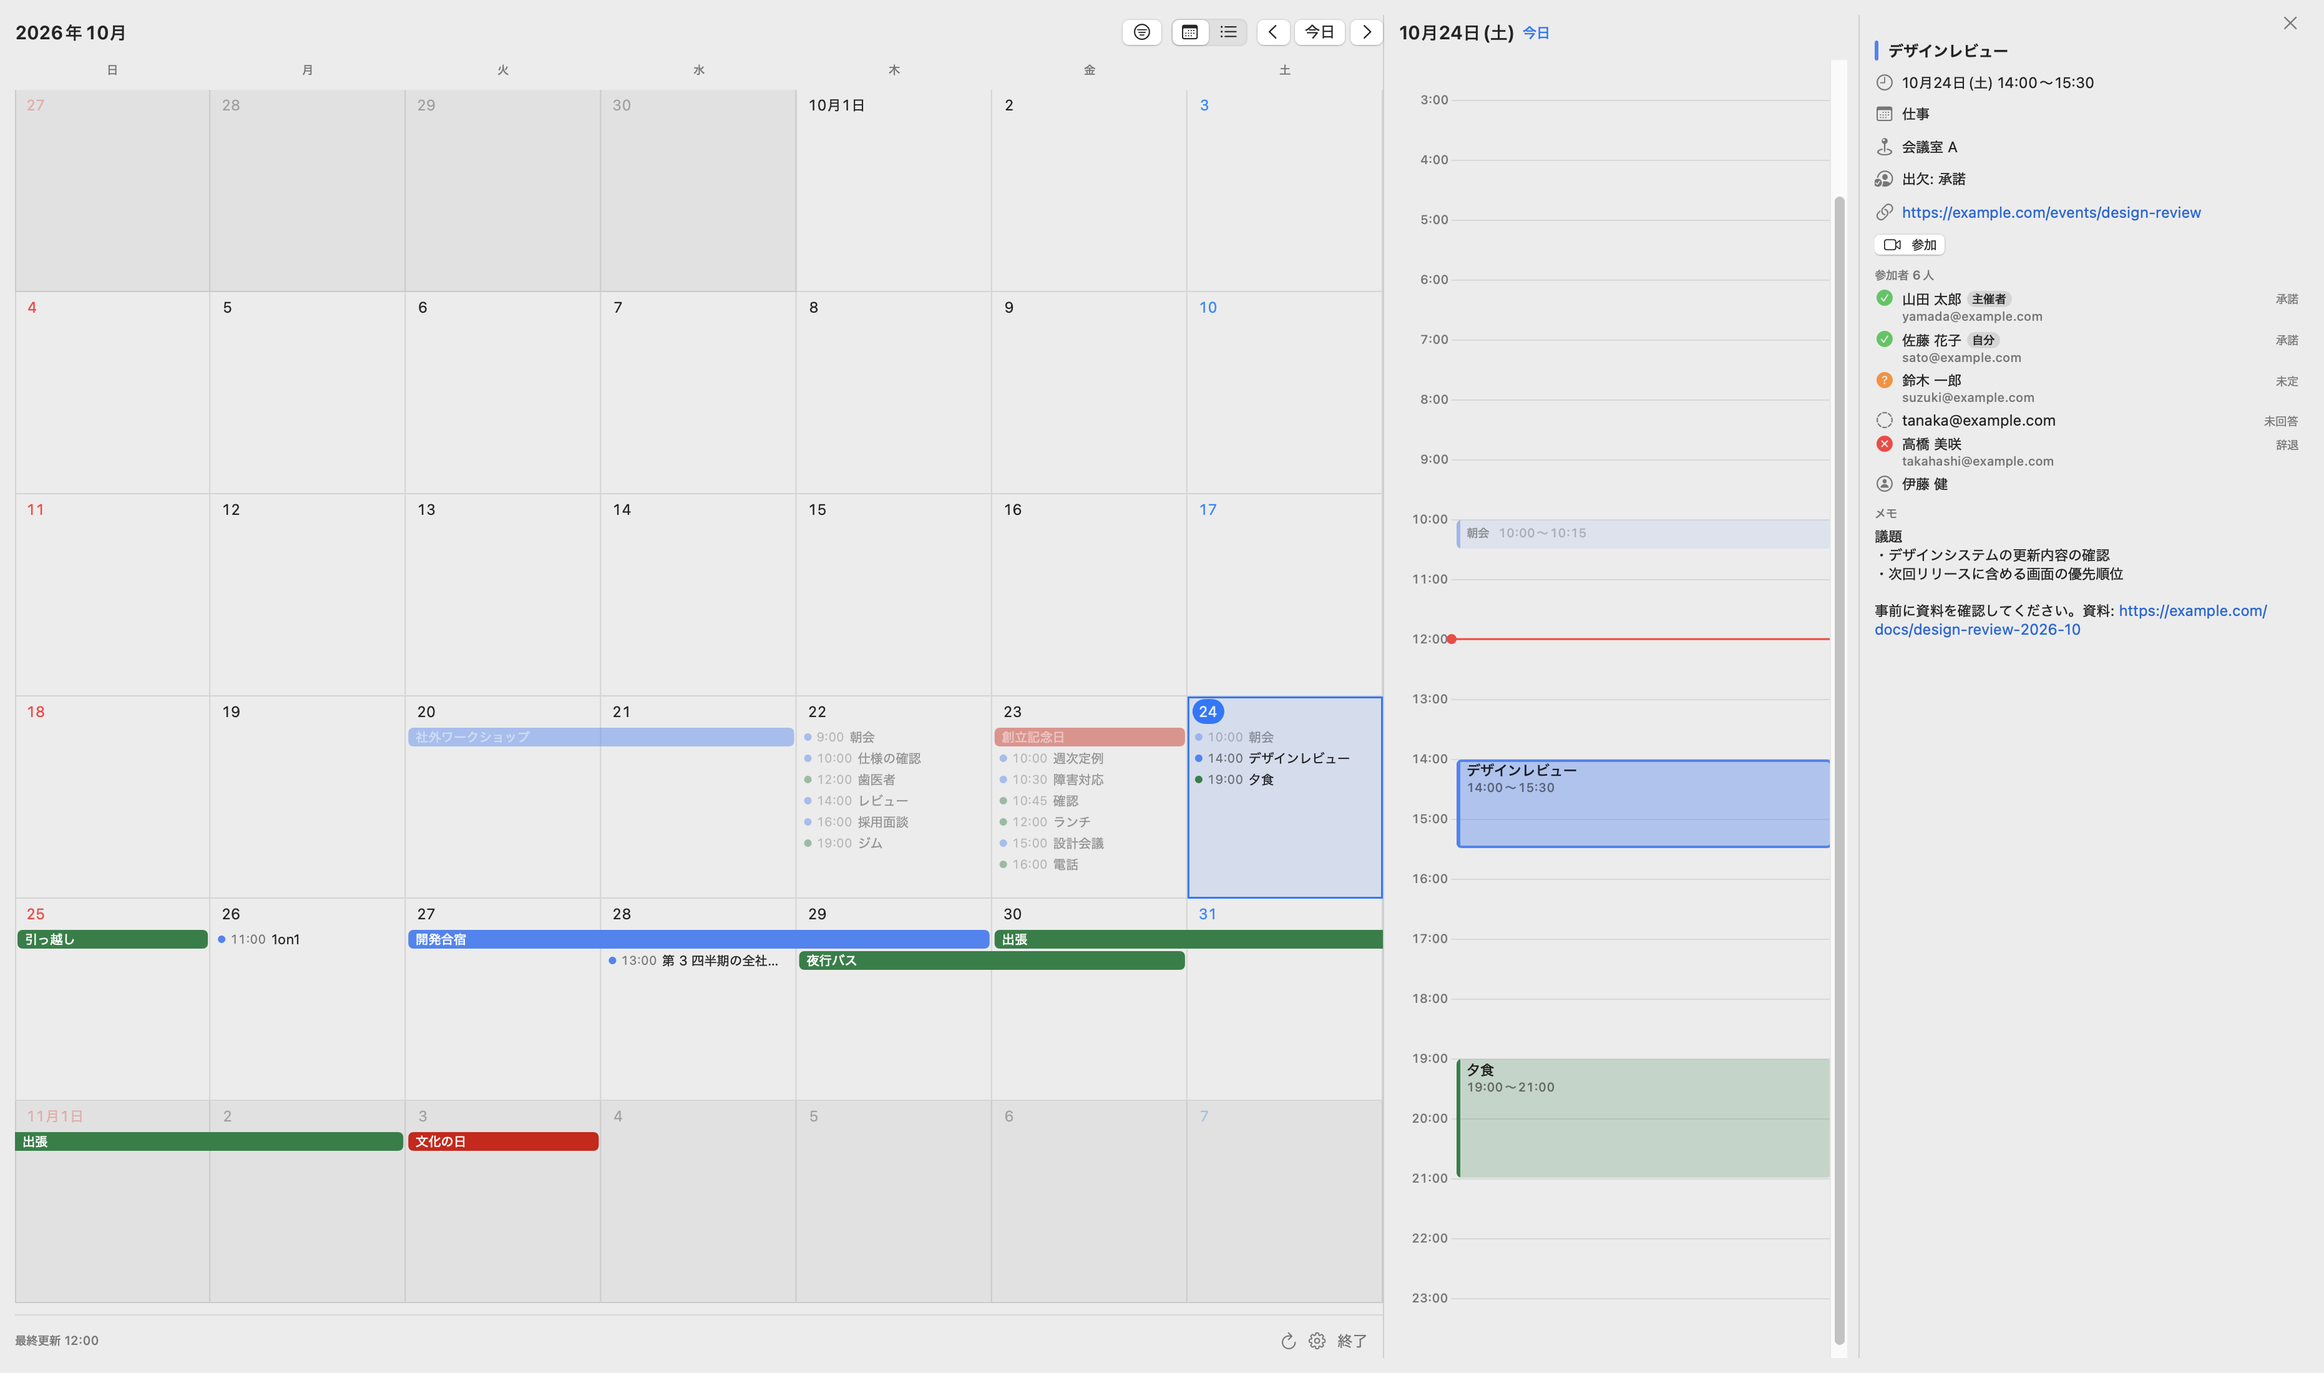
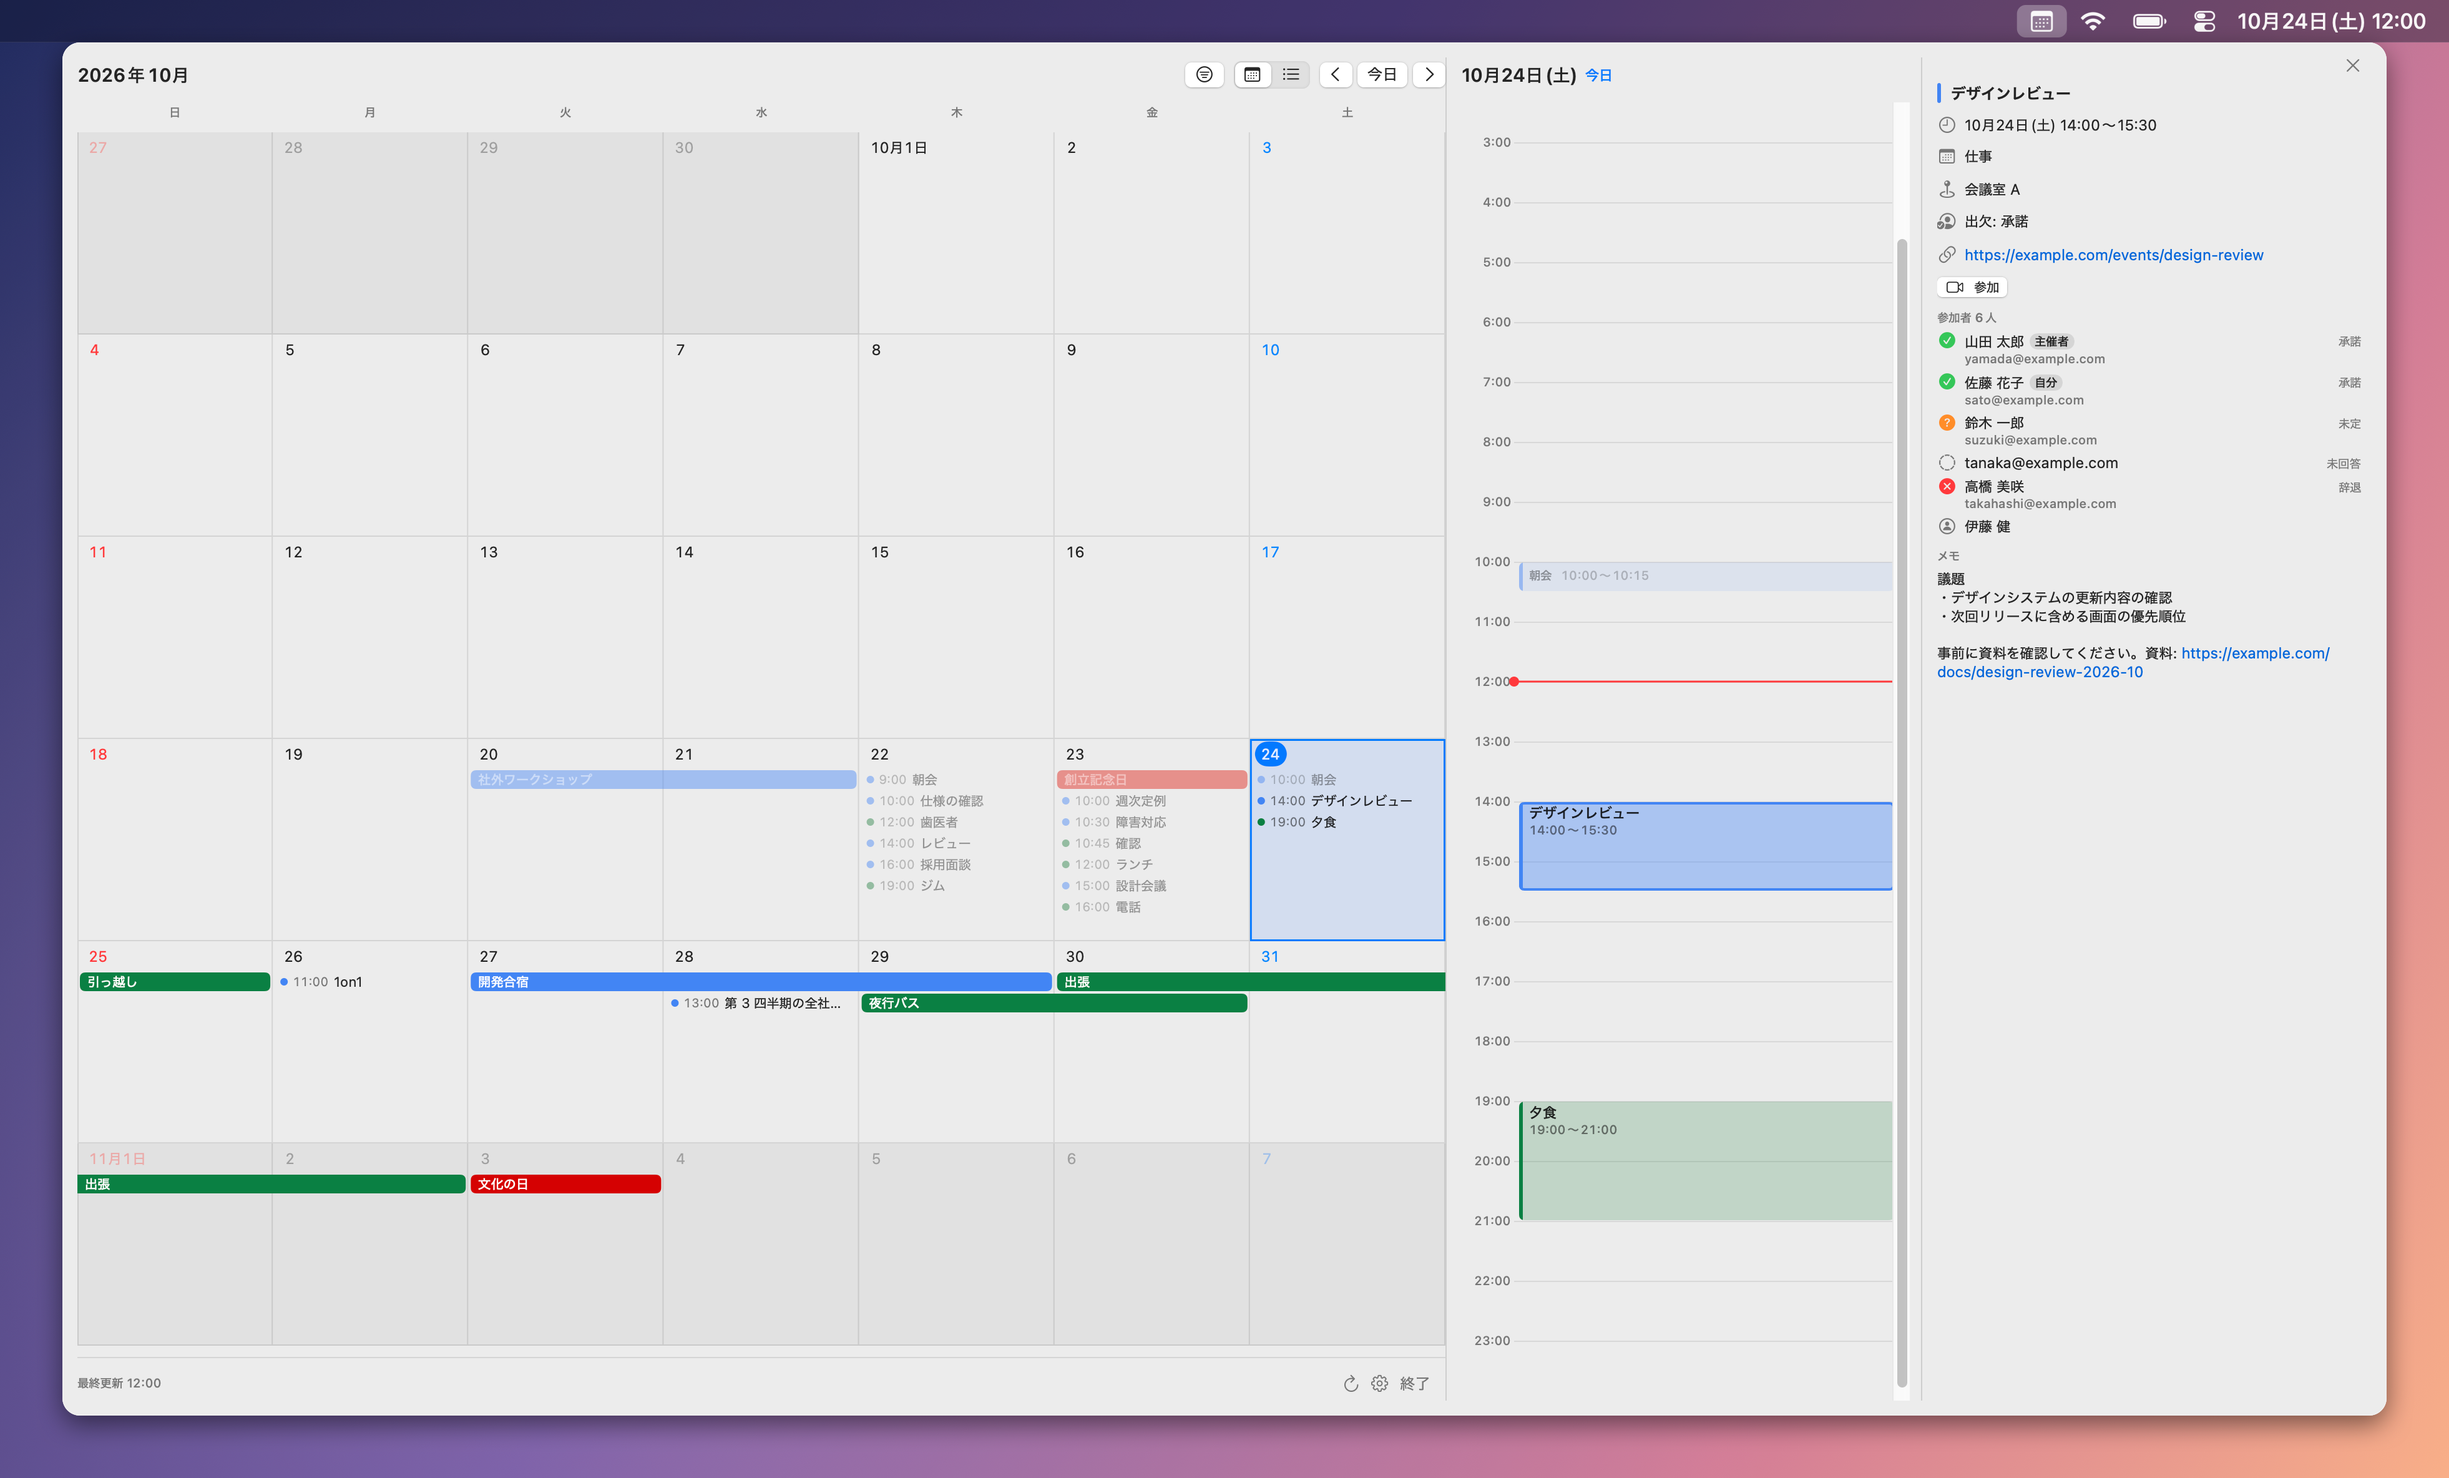
docs(readme): 画像をメニューバー付きの画面に合成し、アイコンからパネルを開く GIF を冒頭に置く

Changed region(s): [[0.0, 0.0, 1.0, 1.0], [0.5918, 0.3709, 0.6541, 0.4018], [0.5918, 0.8964, 0.623, 0.9273]]

diff --git a/README.md b/README.md
@@ -2,7 +2,7 @@
 
 メニューバーから、Google カレンダーなどの予定をすぐに確認できる macOS アプリです。macOS の「インターネットアカウント」に追加したアカウントのカレンダーを、EventKit でまとめて表示します。アプリ自体にサインインはなく、認証情報も持ちません。
 
-![月表示。マス目、選択日のスケジュール、予定の詳細を並べて表示する](.github/assets/month.png)
+![メニューバーのアイコンを押すと、真下にパネルが開き、予定一覧をスクロールして日を選ぶ](.github/assets/hero.gif)
 
 画像はすべて、架空のサンプルデータで作成しています。
 
@@ -23,8 +23,6 @@
 ### コンパクト表示
 
 幅の狭い月のカレンダーと、日ごとの予定一覧です。予定一覧は選択日から始まり、スクロールすると日が進みます。
-
-<img src=".github/assets/compact.gif" width="300" alt="コンパクト表示で予定一覧をスクロールし、日を選ぶ操作">
 
 ### 表示するカレンダーの切り替え
 
